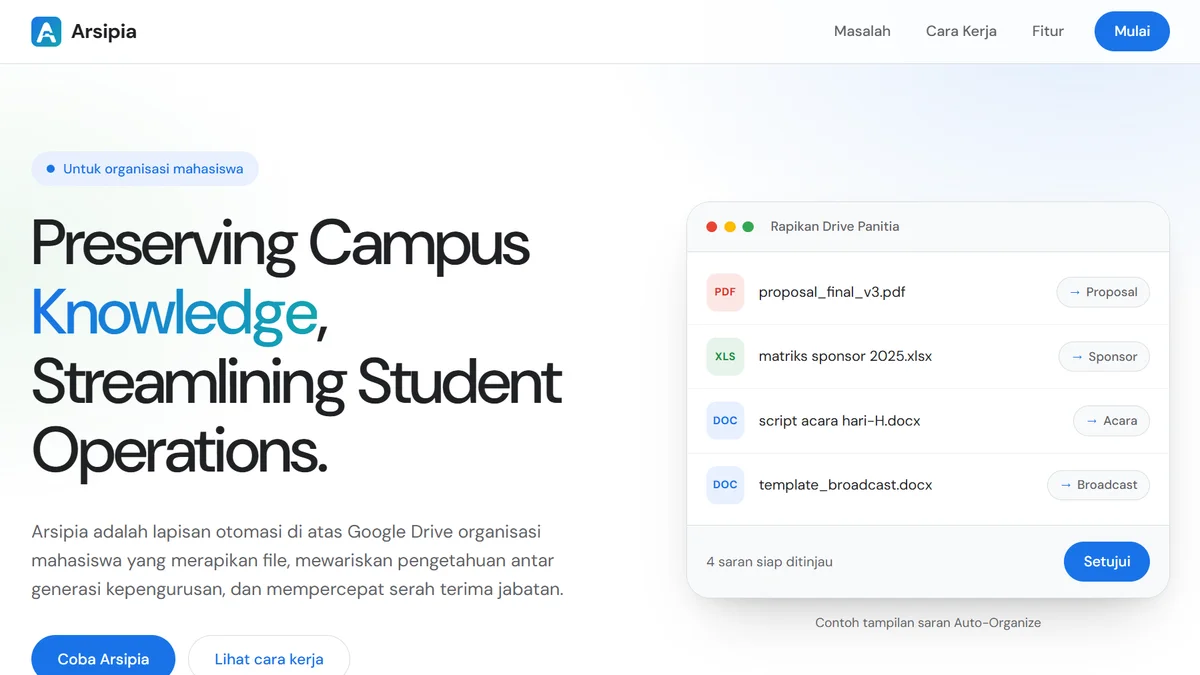
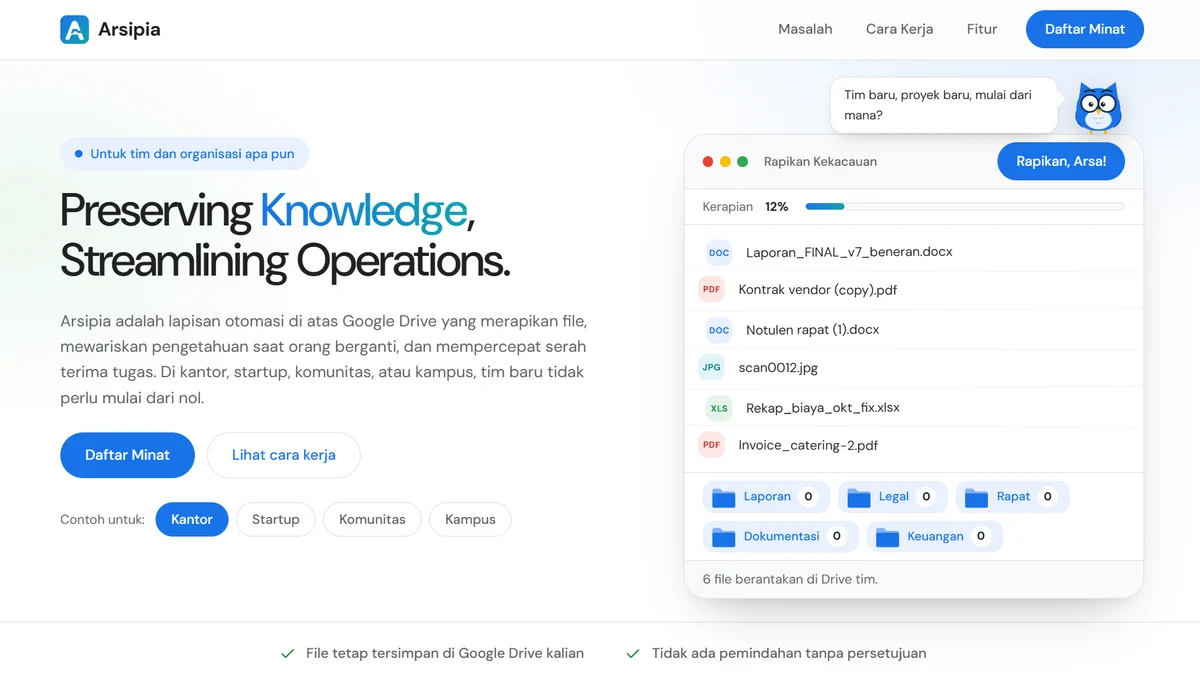
feat: update arsipia screenshot and description

diff --git a/src/data/projects.ts b/src/data/projects.ts
@@ -15,7 +15,7 @@ export const projects: Project[] = [
     role: 'Developer & Designer',
     year: '2026',
     description:
-      'An automation layer on top of Google Drive that organizes files and passes knowledge between generations of student organization boards.',
+      'An automation layer on top of Google Drive that tidies files and keeps knowledge with the team when people change, for offices, startups, communities, and campuses.',
     image: '/images/projects/arsipia.webp',
     liveUrl: 'https://arsipia.netlify.app/',
   },
